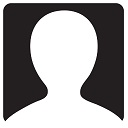
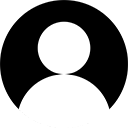
edit admin UI

diff --git a/TheMarch/templates/Admin/navbar.html b/TheMarch/templates/Admin/navbar.html
@@ -121,7 +121,13 @@
                     <input type="text" placeholder="Search..." class="form-control"> <a href=""><i class="fa fa-search"></i></a> </form>
             </li>-->
             <li class="dropdown">
-                <a class="dropdown-toggle profile-pic" data-toggle="dropdown" href="#"> <img src="/static/AdminTemplate/plugins/images/users/admin.jpg" alt="user-img" width="36" class="img-circle"><b class="hidden-xs">{{current_user.name}}</b><span class="caret"></span> </a>
+                <a class="dropdown-toggle profile-pic" data-toggle="dropdown" href="#">
+                  {% if current_user.role ==  'admin'%}
+                  <img src="/static/AdminTemplate/plugins/images/users/admin.jpg" alt="user-img" width="36" class="img-circle">
+                  {% else%}
+                  <img src="/static/AdminTemplate/plugins/images/users/user.jpg" alt="user-img" width="36" class="img-circle">
+                  {% endif%}
+                  <b class="hidden-xs">{{current_user.name}}</b><span class="caret"></span> </a>
                 <ul class="dropdown-menu dropdown-user animated flipInY">
                     <li>
                         <div class="dw-user-box">
